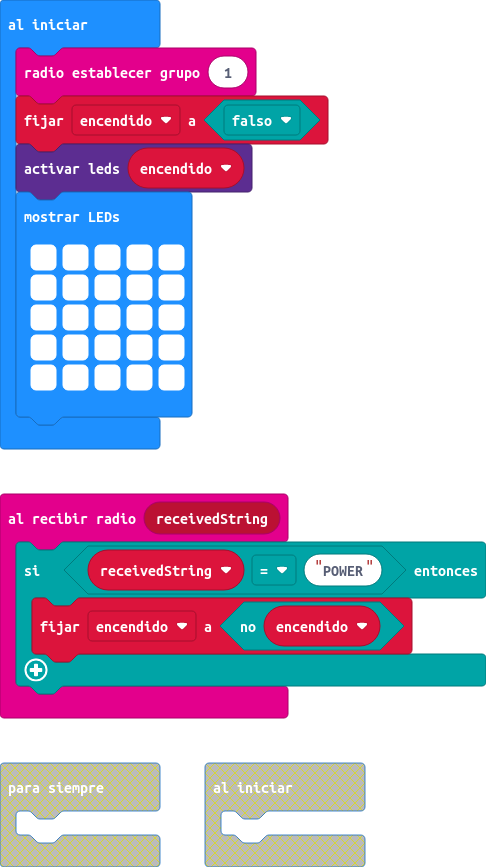
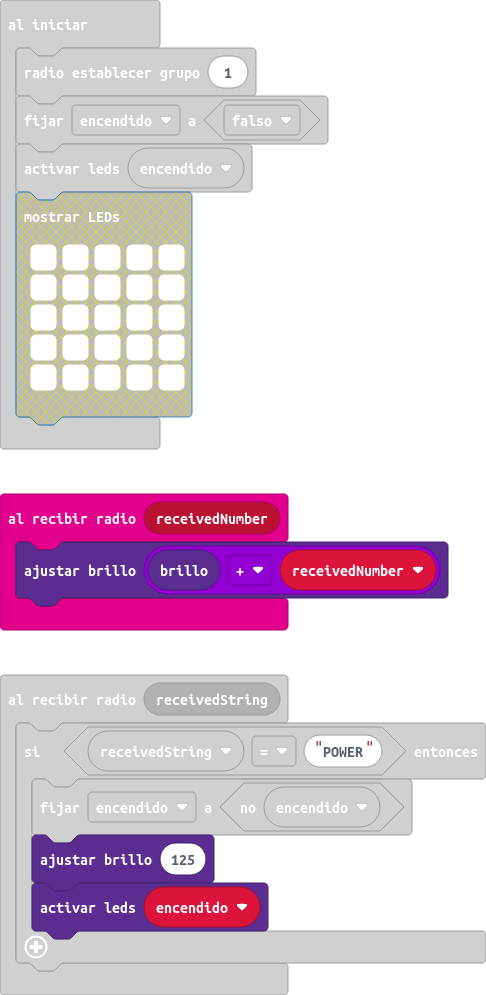
Actualizar main.blocks, main.ts

diff --git a/main.ts b/main.ts
@@ -1,16 +1,14 @@
+radio.onReceivedNumber(function (receivedNumber) {
+    led.setBrightness(led.brightness() + receivedNumber)
+})
 radio.onReceivedString(function (receivedString) {
     if (receivedString == "POWER") {
         encendido = !(encendido)
+        led.setBrightness(125)
+        led.enable(encendido)
     }
 })
 let encendido = false
 radio.setGroup(1)
 encendido = false
 led.enable(encendido)
-basic.showLeds(`
-    # # # # #
-    # # # # #
-    # # # # #
-    # # # # #
-    # # # # #
-    `)
